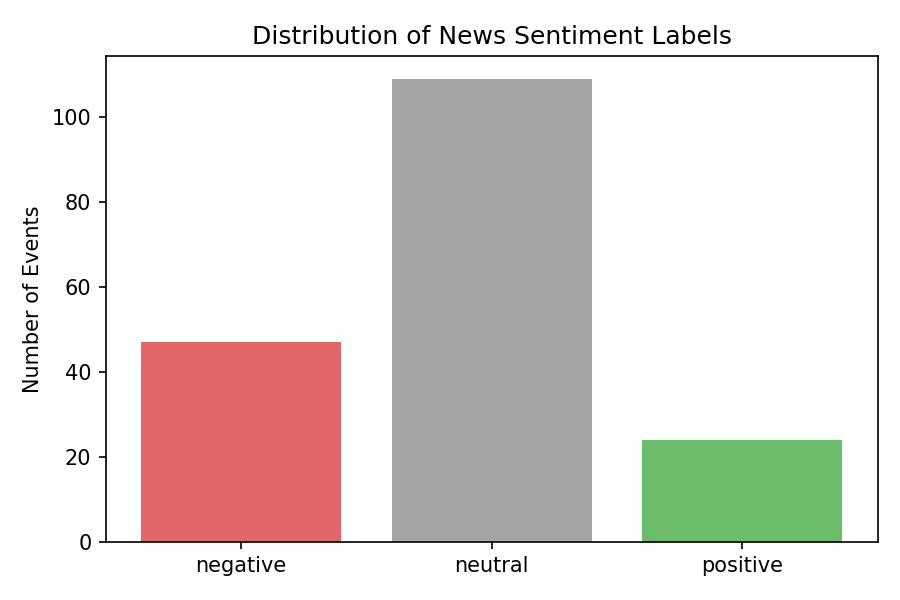
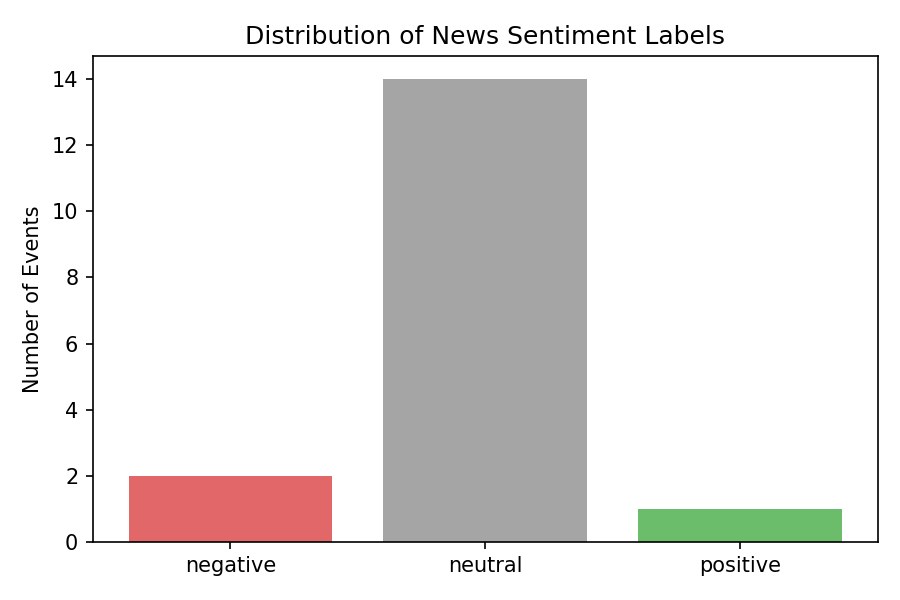
Fix pseudo-replication: aggregate same-day headlines into single events

diff --git a/src/event_study.py b/src/event_study.py
@@ -111,6 +111,67 @@ def get_car_for_event(price_df: pd.DataFrame, event_date: pd.Timestamp,
     return float(np.sum(ars))
 
 
+def aggregate_daily_events(sentiment_df: pd.DataFrame) -> pd.DataFrame:
+    """
+    Aggregates multiple headlines for the SAME (ticker, calendar day) into a
+    single event with one averaged sentiment score.
+
+    WHY THIS MATTERS (important methodological fix): if 20 headlines about
+    TSLA all land on the same day, they all get the exact same event window
+    and therefore the exact same CAR (the stock only moves once that day
+    regardless of how many articles were written about it). Treating those
+    20 headlines as 20 independent statistical observations massively
+    understates uncertainty and inflates the apparent sample size -- the
+    t-tests and correlation would be computed as if n=20 when the TRUE
+    number of independent price-move observations is n=1. This is a form of
+    pseudo-replication, a well-known statistical error.
+
+    The fix: group by (ticker, date), and represent each group as ONE event
+    with:
+      - sentiment_score = mean of that day's headline sentiment scores
+      - confidence = mean confidence (used only for reporting/filtering context;
+        the confidence filter should be applied BEFORE this aggregation so it
+        still operates on individual headline confidence)
+      - label = majority label among that day's headlines (ties broken toward
+        'neutral' as the conservative choice)
+      - n_headlines = how many headlines contributed to this day's aggregate
+        (kept in the output so you can report/inspect it, and can be used to
+        weight or filter events that had very high headline volume, e.g. a
+        major earnings day getting extra coverage)
+
+    This should be called AFTER filter_by_confidence() and BEFORE CAR is
+    computed, since CAR only needs to be computed once per (ticker, day)
+    rather than once per headline -- also a nice performance win.
+    """
+    df = sentiment_df.copy()
+    df["event_date"] = pd.to_datetime(df["datetime"]).dt.normalize()
+
+    def majority_label(labels):
+        counts = labels.value_counts()
+        top_count = counts.iloc[0]
+        # If there's a tie for the top count, prefer 'neutral' as the
+        # conservative choice rather than arbitrarily picking positive/negative
+        top_labels = counts[counts == top_count].index.tolist()
+        if len(top_labels) > 1 and "neutral" in top_labels:
+            return "neutral"
+        return top_labels[0]
+
+    aggregated = df.groupby(["ticker", "event_date"]).agg(
+        sentiment_score=("sentiment_score", "mean"),
+        confidence=("confidence", "mean"),
+        label=("label", majority_label),
+        n_headlines=("title", "count"),
+        titles=("title", lambda x: " | ".join(x.head(3)) + (" | ..." if len(x) > 3 else "")),
+    ).reset_index()
+
+    aggregated = aggregated.rename(columns={"event_date": "datetime", "titles": "title"})
+
+    print(f"[event_study] Aggregated {len(df)} headlines into {len(aggregated)} unique "
+          f"(ticker, day) events ({len(df) - len(aggregated)} headlines merged into existing days)")
+
+    return aggregated
+
+
 def filter_by_confidence(sentiment_df: pd.DataFrame,
                           min_confidence: float = MIN_SENTIMENT_CONFIDENCE) -> pd.DataFrame:
     """
@@ -133,19 +194,35 @@ def filter_by_confidence(sentiment_df: pd.DataFrame,
 
 def build_event_study_dataset(sentiment_df: pd.DataFrame, prices: dict,
                                 apply_confidence_filter: bool = True,
-                                use_market_adjustment: bool = True) -> pd.DataFrame:
+                                use_market_adjustment: bool = True,
+                                aggregate_same_day: bool = True) -> pd.DataFrame:
     """
     Main pipeline function: takes the sentiment-scored news DataFrame and a
     dict of {ticker: price_df} (which should include BENCHMARK_TICKER's
     price data if use_market_adjustment=True), and computes CAR for every
     news event.
 
-    Returns a DataFrame with one row per news event, including:
-        ticker, datetime, title, label, sentiment_score, CAR
+    If aggregate_same_day=True (recommended, default), multiple headlines
+    for the same ticker on the same day are collapsed into one event with
+    an averaged sentiment score BEFORE computing CAR -- see
+    aggregate_daily_events() for why this matters. This gives you the
+    statistically honest sample size (unique price-move events) instead of
+    the inflated headline count.
+
+    Returns a DataFrame with one row per (ticker, day) event, including:
+        ticker, datetime, title, label, sentiment_score, CAR, n_headlines
     Rows where CAR couldn't be computed (insufficient data) are dropped.
     """
     if apply_confidence_filter:
         sentiment_df = filter_by_confidence(sentiment_df)
+
+    if aggregate_same_day:
+        sentiment_df = aggregate_daily_events(sentiment_df)
+    else:
+        # Ensure a consistent schema either way -- add n_headlines=1 when
+        # aggregation is skipped, so downstream code / CSVs have the same columns.
+        sentiment_df = sentiment_df.copy()
+        sentiment_df["n_headlines"] = 1
 
     benchmark_df = None
     if use_market_adjustment:
@@ -176,6 +253,7 @@ def build_event_study_dataset(sentiment_df: pd.DataFrame, prices: dict,
                 "label": row["label"],
                 "sentiment_score": row["sentiment_score"],
                 "confidence": row["confidence"],
+                "n_headlines": row["n_headlines"],
                 "CAR": car,
                 "market_adjusted": benchmark_df is not None,
             })

diff --git a/src/explore_results.py b/src/explore_results.py
@@ -1,0 +1,111 @@
+"""
+explore_results.py
+--------------------
+Diagnostic / exploratory script -- NOT part of the core pipeline. Run this
+after run_pipeline.py to understand WHY the statistics look the way they do,
+before deciding whether to wait for more data or adjust methodology.
+
+This does not change any files in data/ or results/ -- it's purely for
+your own understanding.
+
+Usage:
+    python src/explore_results.py
+"""
+
+import os
+import pandas as pd
+import numpy as np
+
+PROCESSED_DIR = os.path.join(os.path.dirname(__file__), "..", "data", "processed")
+DATASET_PATH = os.path.join(PROCESSED_DIR, "event_study_dataset.csv")
+
+
+def main():
+    if not os.path.exists(DATASET_PATH):
+        print(f"ERROR: {DATASET_PATH} not found. Run run_pipeline.py first.")
+        return
+
+    df = pd.read_csv(DATASET_PATH, parse_dates=["datetime"])
+    print(f"Loaded {len(df)} events\n")
+
+    # -----------------------------------------------------------------
+    # 1. Biggest movers -- what does the extreme end of CAR look like?
+    # -----------------------------------------------------------------
+    print("=" * 70)
+    print("TOP 10 HIGHEST CAR EVENTS (biggest positive abnormal return)")
+    print("=" * 70)
+    top = df.nlargest(10, "CAR")[["ticker", "datetime", "label", "confidence", "CAR", "title"]]
+    for _, row in top.iterrows():
+        print(f"  [{row['label']:8s} conf={row['confidence']:.2f}] CAR={row['CAR']:+.4f}  {row['ticker']:5s}  {row['title'][:70]}")
+
+    print()
+    print("=" * 70)
+    print("TOP 10 LOWEST CAR EVENTS (biggest negative abnormal return)")
+    print("=" * 70)
+    bottom = df.nsmallest(10, "CAR")[["ticker", "datetime", "label", "confidence", "CAR", "title"]]
+    for _, row in bottom.iterrows():
+        print(f"  [{row['label']:8s} conf={row['confidence']:.2f}] CAR={row['CAR']:+.4f}  {row['ticker']:5s}  {row['title'][:70]}")
+
+    # -----------------------------------------------------------------
+    # 2. Breakdown by ticker -- is one stock driving/hiding the signal?
+    # -----------------------------------------------------------------
+    print()
+    print("=" * 70)
+    print("BREAKDOWN BY TICKER")
+    print("=" * 70)
+    by_ticker = df.groupby("ticker").agg(
+        n_events=("CAR", "count"),
+        mean_CAR=("CAR", "mean"),
+        std_CAR=("CAR", "std"),
+    ).sort_values("n_events", ascending=False)
+    print(by_ticker)
+
+    # Correlation per-ticker (only if enough events)
+    print("\nPer-ticker sentiment-CAR correlation (only shown if n>=10):")
+    for ticker, group in df.groupby("ticker"):
+        if len(group) >= 10:
+            r = group["sentiment_score"].corr(group["CAR"])
+            print(f"  {ticker}: n={len(group)}, r={r:.3f}")
+
+    # -----------------------------------------------------------------
+    # 3. Duplicate CAR values -- how many events share an identical CAR?
+    #    (this happens when multiple headlines land on the same day/ticker
+    #    and therefore share the same event window -- normal, but good to
+    #    quantify since it affects "effective" independent sample size)
+    # -----------------------------------------------------------------
+    print()
+    print("=" * 70)
+    print("EVENT CLUSTERING (same ticker+CAR = same underlying price move)")
+    print("=" * 70)
+    dup_groups = df.groupby(["ticker", "CAR"]).size()
+    dup_groups = dup_groups[dup_groups > 1].sort_values(ascending=False)
+    if len(dup_groups) > 0:
+        print(f"Found {len(dup_groups)} (ticker, CAR) combinations shared by multiple headlines:")
+        print(dup_groups.head(10))
+        total_events_in_clusters = dup_groups.sum()
+        print(f"\n{total_events_in_clusters} of {len(df)} events ({100*total_events_in_clusters/len(df):.0f}%) "
+              f"belong to a cluster sharing an identical CAR with other headlines.")
+        print("This means your EFFECTIVE independent sample size (unique ticker-day price")
+        print("moves) is smaller than your headline count -- worth mentioning in your paper's")
+        print("limitations, and worth considering whether to aggregate same-day headlines per")
+        print("ticker into a single averaged sentiment score per event in a future iteration.")
+    else:
+        print("No clustering found -- every event has a unique CAR value.")
+
+    # -----------------------------------------------------------------
+    # 4. Source breakdown, if available (was this headline from yfinance
+    #    or finviz? -- only works if you re-run with source column kept)
+    # -----------------------------------------------------------------
+    print()
+    print("=" * 70)
+    print("CONFIDENCE DISTRIBUTION BY LABEL")
+    print("=" * 70)
+    print(df.groupby("label")["confidence"].describe()[["mean", "min", "max", "count"]])
+
+    print()
+    print("Done. Use these patterns to decide: wait for more data, adjust the")
+    print("event window, filter by source/ticker, or aggregate same-day events.")
+
+
+if __name__ == "__main__":
+    main()

diff --git a/src/sentiment.py b/src/sentiment.py
@@ -112,8 +112,24 @@ def score_news_archive():
 
     sentiment_df = score_headlines(news_df["title"].tolist())
 
-    # Merge back on title (titles are unique per our earlier de-dup step)
-    merged = news_df.merge(sentiment_df, on="title", how="left")
+    # IMPORTANT: merge by POSITION (reset_index + concat), not by joining on the
+    # `title` column. news_df is de-duplicated per-ticker (see fetch_news.py's
+    # drop_duplicates(subset=["ticker","title"])), so the SAME headline text can
+    # legitimately appear more than once across different tickers (e.g. a wire
+    # headline like "Fed holds rates steady" tagged under both AAPL and MSFT).
+    # Merging on title alone would then match one news_df row to multiple
+    # sentiment_df rows (or vice versa), silently duplicating events and
+    # inflating the dataset. score_headlines() preserves row order and produces
+    # exactly one output row per input row, so a position-based concat is safe
+    # and avoids this entirely.
+    news_df = news_df.reset_index(drop=True)
+    sentiment_df = sentiment_df.reset_index(drop=True)
+    assert len(news_df) == len(sentiment_df), (
+        f"Row count mismatch after scoring: {len(news_df)} headlines in, "
+        f"{len(sentiment_df)} sentiment rows out. This should never happen -- "
+        f"check score_headlines() for a bug if it does."
+    )
+    merged = pd.concat([news_df, sentiment_df.drop(columns=["title"])], axis=1)
     merged.to_csv(SENTIMENT_OUTPUT_PATH, index=False)
     print(f"[sentiment] Saved {len(merged)} scored headlines -> {SENTIMENT_OUTPUT_PATH}")
 

diff --git a/test_pipeline_small.py b/test_pipeline_small.py
@@ -1,0 +1,33 @@
+import sys
+sys.path.insert(0, 'src')
+import pandas as pd 
+import glob
+import os 
+from event_study import build_event_study_dataset
+
+sentiment_path = 'data/processed/news_with_sentiment.csv'
+if not os.path.exists(sentiment_path):
+    print(f"[ERROR] {sentiment_path} not found. Run 'python run_pipeline.py' at least once. Or just the sentiment.py step to generate it first.")
+    sys.exit(1)
+
+sentiment_df = pd.read_csv(sentiment_path, parse_dates=['datetime'])
+sentiment_df_small = sentiment_df.head(20) # just first 20 rows for a quick test 
+
+prices = {}
+for path in glob.glob('data/raw/prices_*.csv'):
+    ticker = os.path.basename(path).replace('prices_', '').replace('.csv', '')
+    prices[ticker] = pd.read_csv(path, index_col='Date', parse_dates=True)
+
+print(f"Loaded price data for: {list(prices.keys())}")
+print(f"Loaded sentiment data with {len(sentiment_df_small)} rows for testing.")
+
+result = build_event_study_dataset(sentiment_df_small, prices)
+
+print()
+if not result.empty:
+    print(result[['ticker', 'label', 'confidence', 'CAR', 'market_adjusted']])
+else:
+    print("[WARN] No usable events produced in this test run. Check date alignment / data coverage.")
+
+print()
+print("Done.")

diff --git a/test_car.py b/test_car.py
@@ -1,0 +1,17 @@
+import sys
+sys.path.insert(0, 'src')
+import pandas as pd
+from event_study import get_car_for_event
+
+aapl = pd.read_csv('data/raw/prices_AAPL.csv', index_col='Date', parse_dates=True)
+spy = pd.read_csv('data/raw/prices_SPY.csv', index_col='Date', parse_dates=True)
+
+test_date = aapl.index[-15]
+print('Testing event date:', test_date.date())
+
+car_adjusted = get_car_for_event(aapl, test_date, benchmark_df=spy)
+car_raw = get_car_for_event(aapl, test_date, benchmark_df=None)
+
+print('Market-adjusted CAR:', car_adjusted)
+print('Raw (non-adjusted) CAR:', car_raw)
+print("Difference (should be roughly SPY's own 3-day cumulative return):", car_raw - car_adjusted)

diff --git a/cache_spy.py b/cache_spy.py
@@ -1,0 +1,11 @@
+import sys
+sys.path.insert(0, 'src')
+from fetch_prices import fetch_and_cache_all
+
+# force_refresh=False so your existing 7 cached tickers are NOT re-downloaded
+# (saves time/API calls) -- only SPY, which has no cache file yet, gets fetched.
+data = fetch_and_cache_all(force_refresh=False)
+
+print("\nCached tickers now available:")
+for ticker, df in data.items():
+    print(f"  {ticker}: {len(df)} rows, {df.index.min().date()} to {df.index.max().date()}")

diff --git a/README.md b/README.md
@@ -54,15 +54,25 @@ Journal of Economic Literature):
    below 0.6 are excluded before analysis, since a low-confidence label (e.g.
    51% "positive") is closer to a coin flip than a real signal and would only
    add noise to the sentiment groups.
-4. **Market-adjusted Abnormal Return (AR)**: `AR_t = Stock_Return_t - SPY_Return_t`
+4. **Same-day aggregation** (important): multiple headlines about the same
+   ticker on the same calendar day are collapsed into ONE event with an
+   averaged sentiment score, rather than counted as separate independent
+   observations. This matters a lot in practice -- a single major news day
+   (e.g. an earnings report) can generate 10-20 headlines that all share the
+   exact same subsequent price move, since the stock only moves once
+   regardless of article count. Treating each headline as independent would
+   be a form of pseudo-replication: it inflates the apparent sample size and
+   understates the true uncertainty in any statistical test. Aggregating to
+   one event per (ticker, day) gives the statistically honest sample size.
+5. **Market-adjusted Abnormal Return (AR)**: `AR_t = Stock_Return_t - SPY_Return_t`
    (SPY, the S&P 500 ETF, as the market proxy). This isolates stock-specific
    movement from broad market-wide moves -- e.g. if the whole market drops 2%
    on unrelated macro news, that shouldn't be attributed to our ticker's own
    news event. This is the standard "market-adjusted return model" in event
    study literature, a middle ground between a naive same-stock baseline and
    a full CAPM/market-model regression with estimated beta.
-5. **Cumulative Abnormal Return (CAR)**: sum of AR over the event window.
-6. **Hypothesis testing**: Welch's t-test comparing mean CAR between positive-
+6. **Cumulative Abnormal Return (CAR)**: sum of AR over the event window.
+7. **Hypothesis testing**: Welch's t-test comparing mean CAR between positive-
    and negative-sentiment event groups, plus Pearson correlation between
    continuous sentiment score and CAR.
 
@@ -187,6 +197,11 @@ and figures here before submission._
   a full CAPM model with estimated per-stock beta; it corrects for broad
   market-wide moves but not for each stock's individual sensitivity to the
   market.
+- Same-day aggregation reduces headline count to unique price-move events,
+  which is the statistically correct approach but does mean the "sample
+  size" that matters for statistical power is the number of unique
+  (ticker, day) events, not the number of headlines collected -- worth
+  tracking both numbers and reporting the aggregated count as your true N.
 - Headline-level sentiment (not full article body) is used, which may miss
   nuance in longer-form financial reporting.
 - Correlation, not causation: this study establishes statistical association,
